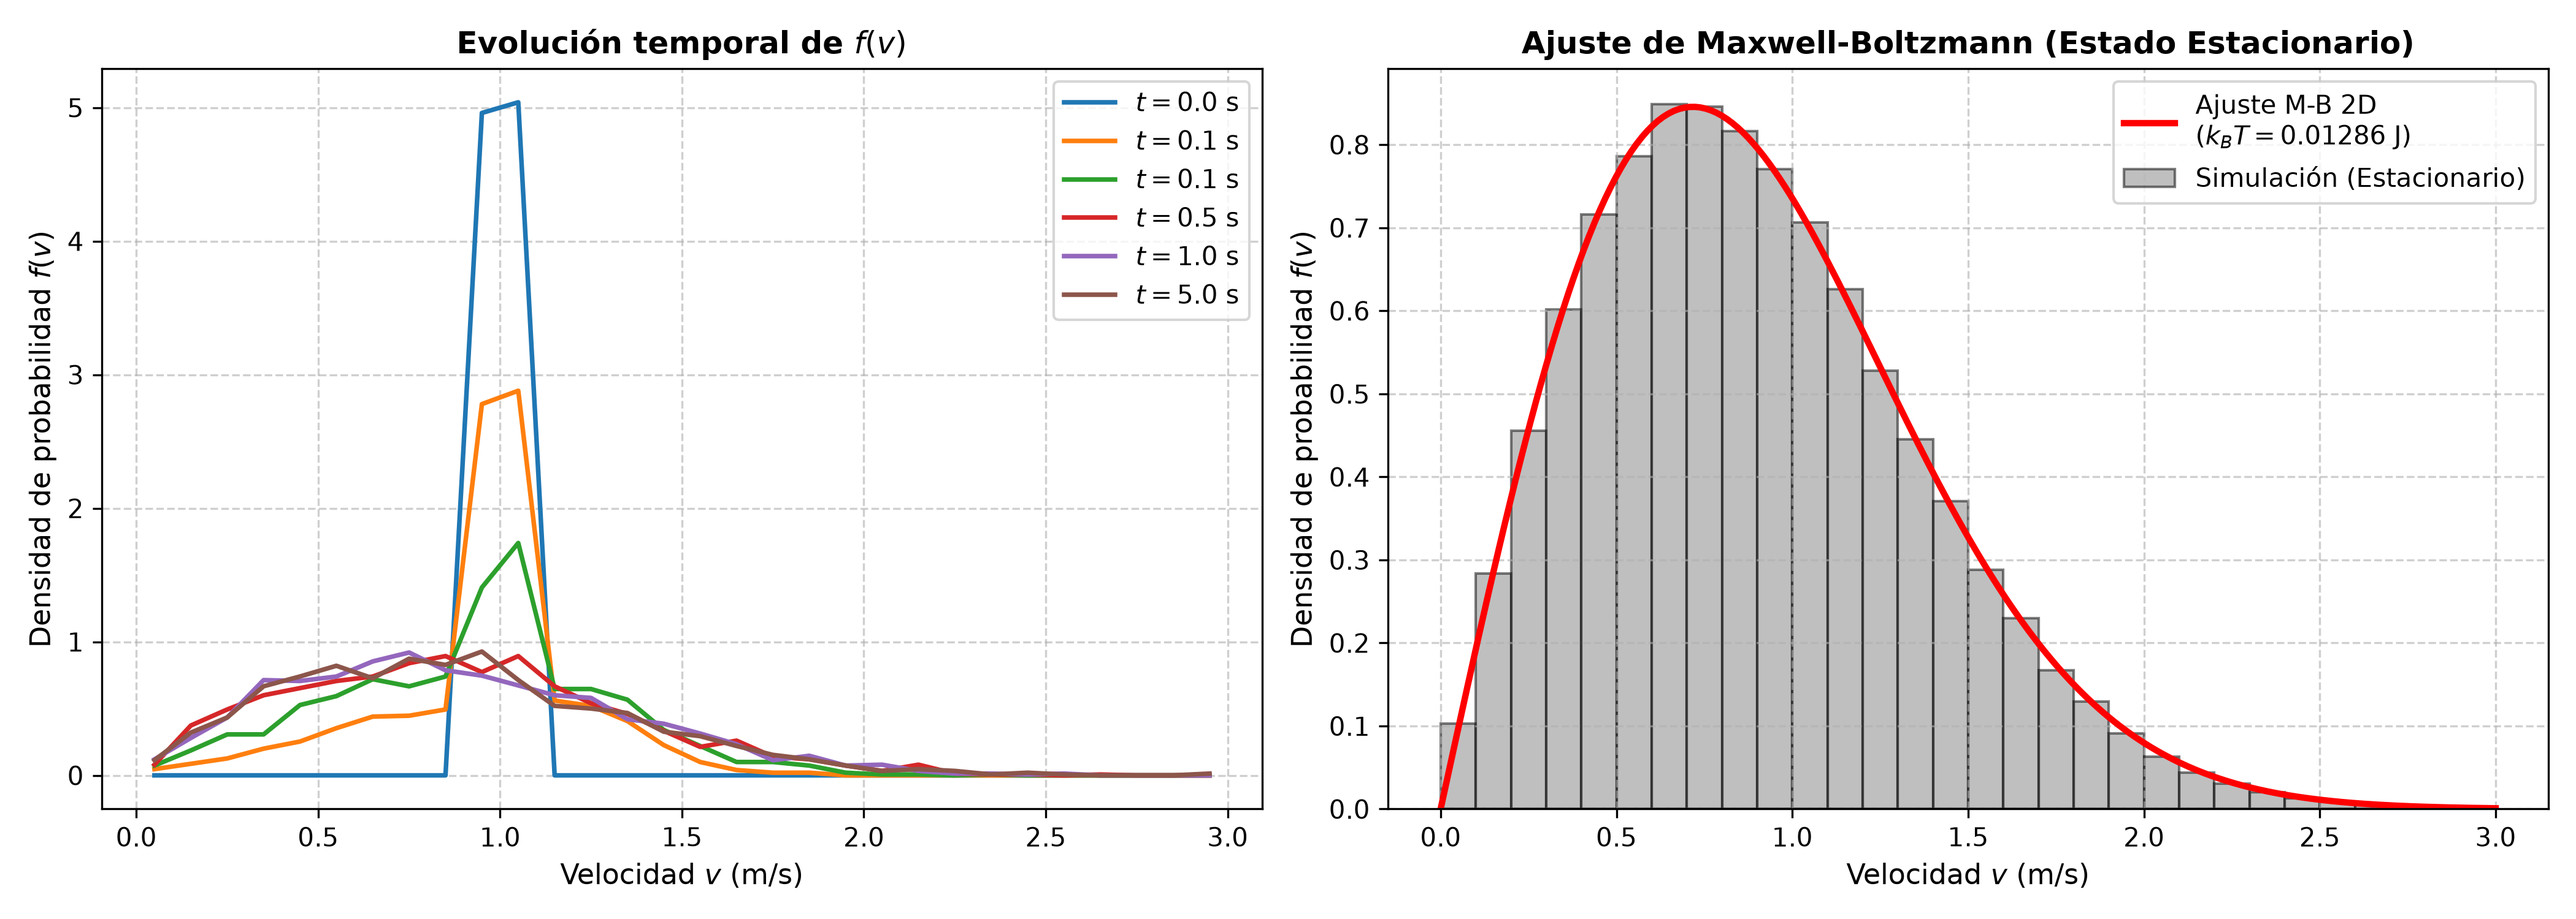
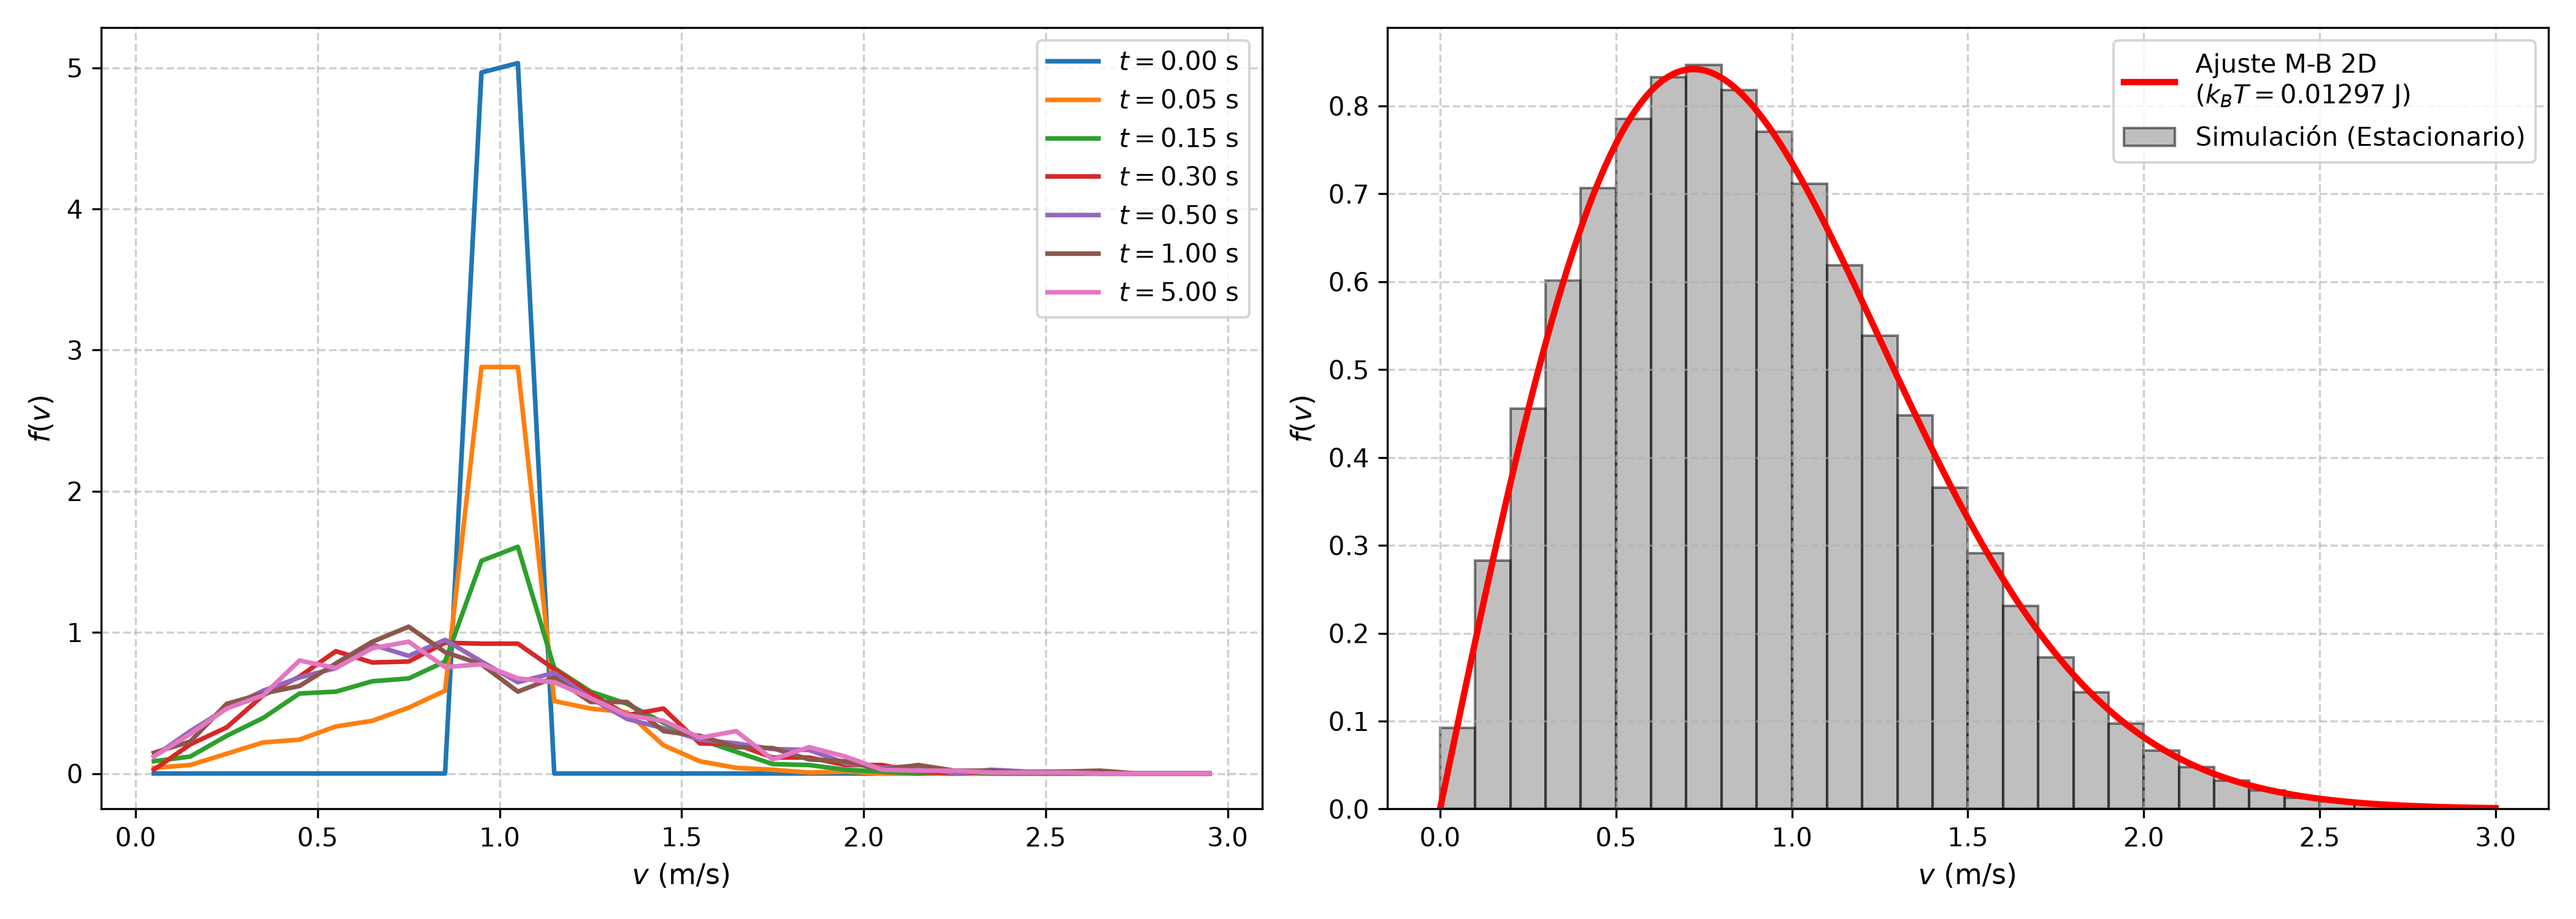
feat: 2.3 graph adjusts

diff --git a/python_scripts/f(v)_vs_dt.py b/python_scripts/f(v)_vs_dt.py
@@ -74,7 +74,7 @@ bin_centers = 0.5 * (bins[:-1] + bins[1:])
 bin_width = bins[1] - bins[0]
 
 fig, (ax1, ax2) = plt.subplots(1, 2, figsize=(14, 5))
-tiempos_objetivo = [0.0, 0.05, 0.15, 0.50, 1.0, 5.0]
+tiempos_objetivo = [0.0, 0.05, 0.15, 0.30,0.50, 1.0, 5.0]
 
 def buscar_tiempo_cercano(t_deseado, lista_tiempos):
     return min(lista_tiempos, key=lambda t: abs(t - t_deseado))
@@ -84,11 +84,11 @@ tiempos_a_mostrar = [buscar_tiempo_cercano(t, tiempos_disponibles) for t in tiem
 for t in tiempos_a_mostrar:
     vels = todas_las_corridas[t]
     hist, _ = np.histogram(vels, bins=bins, density=True)
-    ax1.plot(bin_centers, hist, label=f"$t = {t:.1f}$ s", linewidth=1.8)
+    ax1.plot(bin_centers, hist, label=f"$t = {t:.2f}$ s", linewidth=1.8)
 
-ax1.set_xlabel("Velocidad $v$ (m/s)", fontsize=11)
-ax1.set_ylabel("Densidad de probabilidad $f(v)$", fontsize=11)
-ax1.set_title("Evolución temporal de $f(v)$", fontsize=12, fontweight='bold')
+ax1.set_xlabel("$v$ (m/s)", fontsize=11)
+ax1.set_ylabel("$f(v)$", fontsize=11)
+# ax1.set_title("Evolución temporal de $f(v)$", fontsize=12, fontweight='bold')
 ax1.grid(True, linestyle="--", alpha=0.6)
 ax1.legend()
 
@@ -111,9 +111,9 @@ ax2.bar(bin_centers, f_estacionario, width=bin_width, alpha=0.5, color='gray',
 ax2.plot(v_smooth, maxwell_boltzmann_2d(v_smooth, kbT_ajustado), 'r-', linewidth=2.5,
          label=f"Ajuste M-B 2D\n($k_B T = {kbT_ajustado:.5f}$ J)")
 
-ax2.set_xlabel("Velocidad $v$ (m/s)", fontsize=11)
-ax2.set_ylabel("Densidad de probabilidad $f(v)$", fontsize=11)
-ax2.set_title("Ajuste de Maxwell-Boltzmann (Estado Estacionario)", fontsize=12, fontweight='bold')
+ax2.set_xlabel("$v$ (m/s)", fontsize=11)
+ax2.set_ylabel("$f(v)$", fontsize=11)
+# ax2.set_title("Ajuste de Maxwell-Boltzmann (Estado Estacionario)", fontsize=12, fontweight='bold')
 ax2.grid(True, linestyle="--", alpha=0.6)
 ax2.legend()
 
